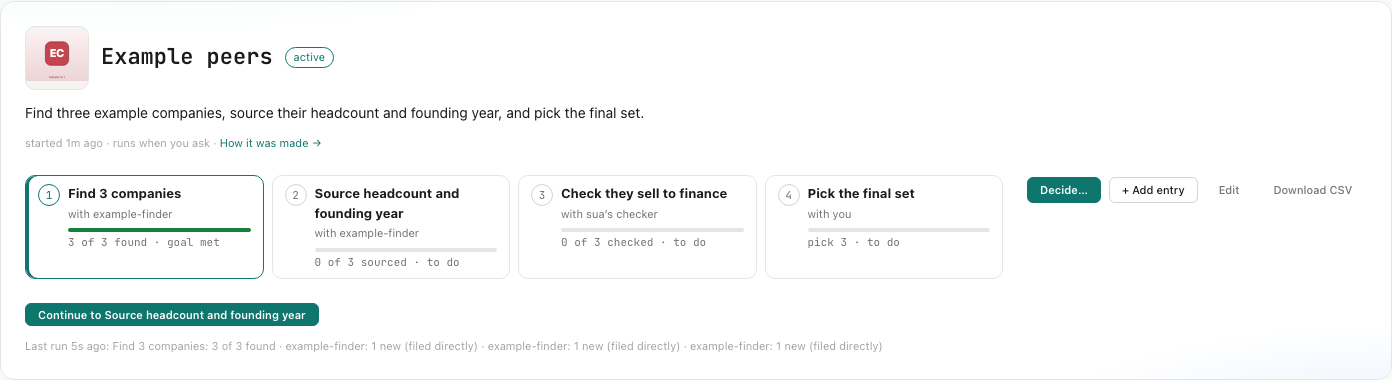
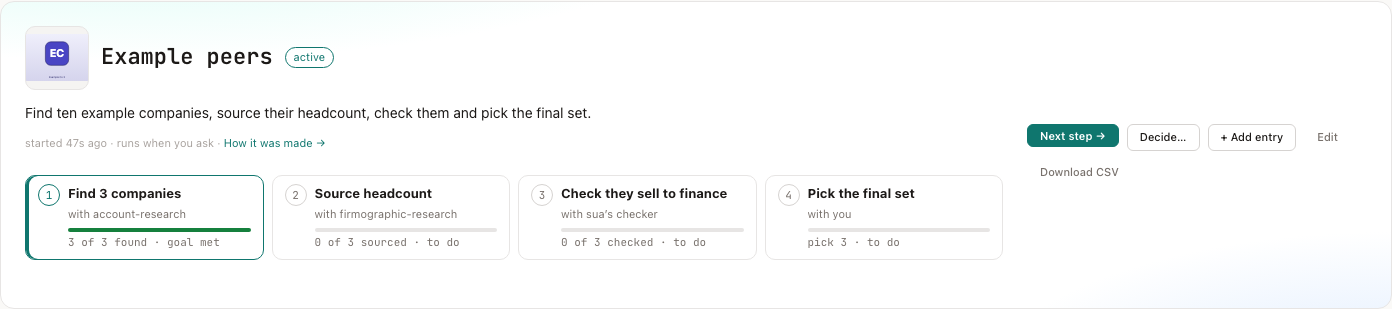
feat: a notebook with steps left has a Next step button in its header
The header's main button is Next step (Try again when stuck, Finish after the
last, Working on step N while one runs); Decide steps aside until the next
move is yours, and the pipeline button returns once steps are done. A check
step without an agent uses sua's checker instead of reading needs an agent.

diff --git a/packages/dashboard/src/views/notebooks.ts b/packages/dashboard/src/views/notebooks.ts
@@ -117,21 +117,37 @@ export function stepsStrip(nb: Notebook, steps: readonly NotebookStep[], entries
 }
 
 /**
- * The one button for what's next: the current step (Run step, Continue, Try
- * again), or the pipeline once there are no steps left. Nothing when the
- * next move is yours (Decide) or the step has no agent yet.
+ * What's next while a notebook has steps left: a button for the header (Next
+ * step, Try again, Finish) with the step it acts on, or a note when
+ * the next move is yours (Decide) or the step has no agent yet. Undefined
+ * once every step is done (Run runs the pipeline again).
  */
-function runButton(nb: Notebook): SafeHtml {
-  const form = (label: string) => html`<form method="POST" action="/notebooks/${encodeURIComponent(nb.id)}/run" class="nb-run__form"><button type="submit" class="btn btn--sm${nb.steps?.length ? ' btn--primary' : ''}">${label}</button></form>`;
+export function nextStepAction(nb: Notebook): { label: string; hint: string } | { note: string } | undefined {
   const steps = nb.steps ?? [];
   const i = steps.findIndex((x) => x.status !== 'done');
-  if (i < 0) return nb.pipeline.length ? form('Run the pipeline now') : html``;
+  if (i < 0) return undefined;
   const step = steps[i];
   const next = steps[i + 1];
-  if (step.status === 'met') return next ? form(next.kind === 'decide' ? 'Continue' : `Continue to ${next.title}`) : form('Finish');
-  if (step.kind === 'decide') return html`<span class="nb-run__last">Next: ${step.title}, with Decide.</span>`;
-  if (!step.agentId) return html`<span class="nb-run__last">${step.title} needs an agent. Ask sua to pick or build one.</span>`;
-  return form(step.status === 'stuck' ? `Try ${step.title} again` : `Run step ${String(i + 1)}: ${step.title}`);
+  const of = `of ${String(steps.length)}`;
+  if (step.status === 'met') {
+    if (!next) return { label: 'Finish', hint: `Step ${String(i + 1)} ${of} is done; that was the last.` };
+    return next.kind === 'decide'
+      ? { note: `Step ${String(i + 1)} is done. Next: ${next.title}, with Decide.` }
+      : { label: 'Next step', hint: `Step ${String(i + 1)} is done. Next: step ${String(i + 2)} ${of}, ${next.title}.` };
+  }
+  if (step.kind === 'decide') return { note: `Next: ${step.title}, with Decide.` };
+  // A check step without an agent uses sua's checker; find and source need one.
+  if (!step.agentId && step.kind !== 'check') return { note: `${step.title} needs an agent. Ask sua to pick or build one.` };
+  return step.status === 'stuck'
+    ? { label: 'Try again', hint: `Step ${String(i + 1)} ${of}, ${step.title}, stopped short. Run it again.` }
+    : { label: 'Next step', hint: `Step ${String(i + 1)} ${of}: ${step.title}` };
+}
+
+/** The pipeline's button, once there are no steps left (with steps, the header has Next step). */
+function runButton(nb: Notebook): SafeHtml {
+  const next = nextStepAction(nb);
+  if (next) return 'note' in next ? html`<span class="nb-run__last">${next.note}</span>` : html``;
+  return nb.pipeline.length ? html`<form method="POST" action="/notebooks/${encodeURIComponent(nb.id)}/run" class="nb-run__form"><button type="submit" class="btn btn--sm">Run the pipeline now</button></form>` : html``;
 }
 
 function hero(nb: Notebook, stages: PipelineStage[], running?: { step: number; of: number }, widgets = false, cover?: { src: string; kind: string }, leads: readonly NotebookViewOption[] = [], entries: readonly NotebookEntry[] = []): SafeHtml {
@@ -183,7 +199,7 @@ function hero(nb: Notebook, stages: PipelineStage[], running?: { step: number; o
               </form>`) as unknown as SafeHtml[]}
           </div>
         </div>`}
-        ${heroActions(nb, entries, leads)}
+        ${heroActions(nb, entries, leads, running)}
       </aside>
     </section>`;
 }
@@ -500,13 +516,21 @@ function editNotebookForm(nb: Notebook): SafeHtml {
  * The header's actions: Decide… (or Reopen), + Add entry and Edit, each a
  * button that opens its form below it; one open at a time (notebook-page.js.ts).
  */
-function heroActions(nb: Notebook, entries: readonly NotebookEntry[], leads: readonly NotebookViewOption[]): SafeHtml {
+function heroActions(nb: Notebook, entries: readonly NotebookEntry[], leads: readonly NotebookViewOption[], running?: { step: number; of: number }): SafeHtml {
   const id = encodeURIComponent(nb.id);
+  // While it has steps left, the next one is the header's main button (Decide steps aside).
+  const next = nb.status === 'active' ? nextStepAction(nb) : undefined;
+  const step = next && 'label' in next ? next : undefined;
   return html`
     <div class="nb-acts">
+      ${running && nb.steps?.some((x) => x.status !== 'done')
+        ? html`<button type="button" class="btn btn--primary btn--sm nb-next" disabled>Working on step ${String(running.step)}…</button>`
+        : step
+          ? html`<form method="POST" action="/notebooks/${id}/run" class="nb-next__form"><button type="submit" class="btn btn--primary btn--sm nb-next" title="${step.hint}" aria-label="${step.label}: ${step.hint}">${step.label} →</button></form>`
+          : html``}
       ${nb.status === 'active' ? html`
         <details class="nb-act nb-decide" data-nb-act>
-          <summary class="btn btn--primary btn--sm">Decide…</summary>
+          <summary class="btn btn--sm${step || running ? '' : ' btn--primary'}">Decide…</summary>
           <div class="nb-act__panel">
             <form method="POST" action="/notebooks/${id}/decide" class="nb-decide__form">
               <label for="nb-decision" class="nb-progress__label">What did you decide, and why?</label>

diff --git a/packages/dashboard/src/routes/notebooks.test.ts b/packages/dashboard/src/routes/notebooks.test.ts
@@ -347,6 +347,23 @@ describe('notebook pipeline (G2–G3)', () => {
     expect(pipelineInputs({ inputs: { TOPIC: {}, STEP: {} } } as never, nb)).toEqual({ TOPIC: 'Find software comps' });
   });
 
+  it("the header's Next step: what it says for each kind of step, and when it steps aside", async () => {
+    await makeApp();
+    const { nextStepAction } = await import('../views/notebooks.js');
+    const nb = (steps: unknown[]) => ({ steps } as never);
+    const st = (kind: string, status = 'todo', agentId?: string) => ({ id: kind, title: `The ${kind}`, kind, status, tries: 0, ...(agentId ? { agentId } : {}) });
+    expect(nextStepAction(nb([st('find', 'todo', 'a'), st('decide')]))).toEqual({ label: 'Next step', hint: 'Step 1 of 2: The find' });
+    // A check step without an agent uses sua's checker: still a Next step.
+    expect(nextStepAction(nb([st('find', 'done', 'a'), st('check')]))).toEqual({ label: 'Next step', hint: 'Step 2 of 2: The check' });
+    expect(nextStepAction(nb([st('source')]))).toEqual({ note: 'The source needs an agent. Ask sua to pick or build one.' });
+    expect(nextStepAction(nb([st('find', 'stuck', 'a')]))).toMatchObject({ label: 'Try again' });
+    expect(nextStepAction(nb([st('find', 'met', 'a'), st('source', 'todo', 'b')]))).toEqual({ label: 'Next step', hint: 'Step 1 is done. Next: step 2 of 2, The source.' });
+    expect(nextStepAction(nb([st('find', 'met', 'a')]))).toMatchObject({ label: 'Finish' });
+    expect(nextStepAction(nb([st('find', 'met', 'a'), st('decide')]))).toEqual({ note: 'Step 1 is done. Next: The decide, with Decide.' });
+    expect(nextStepAction(nb([st('find', 'done', 'a')]))).toBeUndefined();
+    expect(nextStepAction(nb([]))).toBeUndefined();
+  });
+
   it('works on one step at a time: retries toward its goal, pauses for Continue, and says when it is stuck', async () => {
     const app = await makeApp();
     const post = (path: string) => request(app).post(path)
@@ -368,7 +385,11 @@ describe('notebook pipeline (G2–G3)', () => {
     const page = async () => (await request(app).get(`/notebooks/${nb.id}`).set('Host', `127.0.0.1:${PORT}`).set('Cookie', COOKIE)).text;
     const thread = () => InboxStore.fromHandle(runStore.databaseHandle()).listResponses(store.get(nb.id)!.conversationId!);
 
-    expect(await page()).toContain('Run step 1: Find 3 companies');
+    // The header's main button is the next step (Decide steps aside); no pipeline button while steps are left.
+    let p0 = await page();
+    expect(p0).toContain('title="Step 1 of 3: Find 3 companies" aria-label="Next step: Step 1 of 3: Find 3 companies">Next step →</button>');
+    expect(p0).toContain('<summary class="btn btn--sm">Decide…</summary>');
+    expect(p0).not.toContain('Run the pipeline now');
     expect(decodeURIComponent((await post(`/notebooks/${nb.id}/run`)).headers.location)).toContain('Working on Find 3 companies');
     await settle();
     // Three runs, one company each: met, and it waits.
@@ -376,7 +397,7 @@ describe('notebook pipeline (G2–G3)', () => {
     expect(steps[0]).toMatchObject({ status: 'met', tries: 3, note: '3 of 3 found' });
     expect(steps[1].status).toBe('todo');
     expect(store.entries(nb.id).filter((e) => e.kind === 'option')).toHaveLength(3);
-    expect(await page()).toContain('Continue to Find 5 companies');
+    expect(await page()).toContain('title="Step 1 is done. Next: step 2 of 3, Find 5 companies."');
     let said = thread();
     expect(said.some((r) => r.role === 'triage' && r.body.includes('Step 1 of 3 is done: **Find 3 companies** (3 of 3 found). Next is **Find 5 companies**, with samey.'))).toBe(true);
     const card = said.find((r) => r.role === 'action')!;
@@ -394,13 +415,17 @@ describe('notebook pipeline (G2–G3)', () => {
     said = thread();
     expect(said.some((r) => r.body.includes('**Find 5 companies** stopped short after 1 try (3 of 5 found). Still needed:\n- 2 more'))).toBe(true);
     expect(JSON.parse(said.filter((r) => r.role === 'action').at(-1)!.metaJson!)).toMatchObject({ ctaLabel: 'Try again', inputs: { STEP: 's2', WAS: 'stuck' } });
-    expect(await page()).toContain('Try Find 5 companies again');
+    expect(await page()).toContain('>Try again →</button>');
     // The old Continue card is stale now: it does nothing.
     expect(await executeNotebookStep((await import('../context.js')).getContext(ctx), JSON.parse(card.metaJson!))).toMatchObject({ status: 'failed', refusalReason: 'It has already moved on from that step.' });
 
     // A decide step is yours: Run says so rather than running anything.
     store.updateStep(nb.id, 's2', { status: 'done' });
-    expect(await page()).toContain('Next: Pick the final set, with Decide.');
+    // Deciding is yours: Decide is the main button again, and there's no Next step.
+    p0 = await page();
+    expect(p0).toContain('Next: Pick the final set, with Decide.');
+    expect(p0).toContain('<summary class="btn btn--sm btn--primary">Decide…</summary>');
+    expect(p0).not.toContain('class="nb-next__form"');
     expect(decodeURIComponent((await post(`/notebooks/${nb.id}/run`)).headers.location)).toContain('This step is yours');
   });
 

diff --git a/packages/dashboard/src/assets/notebooks.css b/packages/dashboard/src/assets/notebooks.css
@@ -611,3 +611,4 @@ body.has-sua-panel .nb-start__pointer { display: none; }
   .nbd-step .nbd-step__title { flex: 1 1 0; min-width: 0; }
   .nbd-step__agent { order: 3; flex: 1 1 100%; max-width: none; margin-left: calc(52px + var(--space-2)); }
 }
+.nb-next__form { margin: 0; }

diff --git a/docs/notebooks.md b/docs/notebooks.md
@@ -337,15 +337,15 @@ Each step has a **kind**, which decides its goal. The notebook checks that goal 
 
 ### Running steps
 
-![An example notebook with four steps: the first has met its goal, and the button reads Continue to the next step](images/notebook-steps.png)
+![An example notebook with four steps: the first has met its goal, and the header's main button reads Next step](images/notebook-steps.png)
 
-While a notebook has steps left, its button works on the current one ("Run step 2: Source firmographics"). The pipeline button comes back once every step is done.
+While a notebook has steps left, the main button in its header is **Next step →**. Hover it to see the step it starts ("Step 2 of 4: Source firmographics"). It reads **Try again** for a stuck step, **Finish** after the last one, and "Working on step N…" while a step runs. **Decide…** steps aside until the next move is yours. The pipeline's **Run the pipeline now** button comes back once every step is done.
 
 1. **The agent gets the step's job.** It goes first in the agent's notebook input (`GOAL`, `NOTEBOOK`, `NOTEBOOK_CONTEXT` or `BRIEF`) and its topic input (`TOPIC`, `QUERY`, `QUESTION` or `SEARCH`), and fills a `STEP` input if the agent declares one. For example: "This step: Source firmographics. Don't look for new options. For these options only, find the missing facts, each with a source: …". The agent itself isn't changed.
 2. **What it finds is filed,** the same way as a pipeline run.
 3. **The step's goal is checked.** Short of the goal, the agent runs again with what's still missing, up to 3 times per press. It stops early when a run gets no closer.
 4. **It pauses.**
-   - **Goal met:** the step waits for you. sua says so in the notebook's conversation ("Step 1 of 4 is done: Find 10 companies (12 of 10 found). Next is Source firmographics, with firmographic-research.") with a **Continue** card, and the page's button reads **Continue to …**. Continue marks the step done and starts the next.
+   - **Goal met:** the step waits for you. sua says so in the notebook's conversation ("Step 1 of 4 is done: Find 10 companies (12 of 10 found). Next is Source firmographics, with firmographic-research.") with a **Continue** card, and the header's **Next step →** does the same. Either marks the step done and starts the next.
    - **Stuck:** sua lists what's still missing, with a **Try again** card. You can also tell sua what to do differently, for example change the step or its agent.
    - **Already met:** a step whose goal is met before it runs (an earlier search found enough) is met without a run.
 - **Decide:** a decide step is yours. The button points you to **Decide**, and nothing runs.

diff --git a/.changeset/notebook-next-step-button.md b/.changeset/notebook-next-step-button.md
@@ -1,0 +1,11 @@
+---
+"@some-useful-agents/core": patch
+"@some-useful-agents/cli": patch
+"@some-useful-agents/mcp-server": patch
+"@some-useful-agents/temporal-provider": patch
+"@some-useful-agents/dashboard": patch
+---
+
+A notebook with steps left has a Next step button in its header.
+
+While a notebook has steps left, the header's main button is **Next step →** (Try again for a stuck step, Finish after the last, "Working on step N…" while one runs), and Decide steps aside until the next move is yours. A check step without an agent no longer reads "needs an agent": it uses sua's checker.
